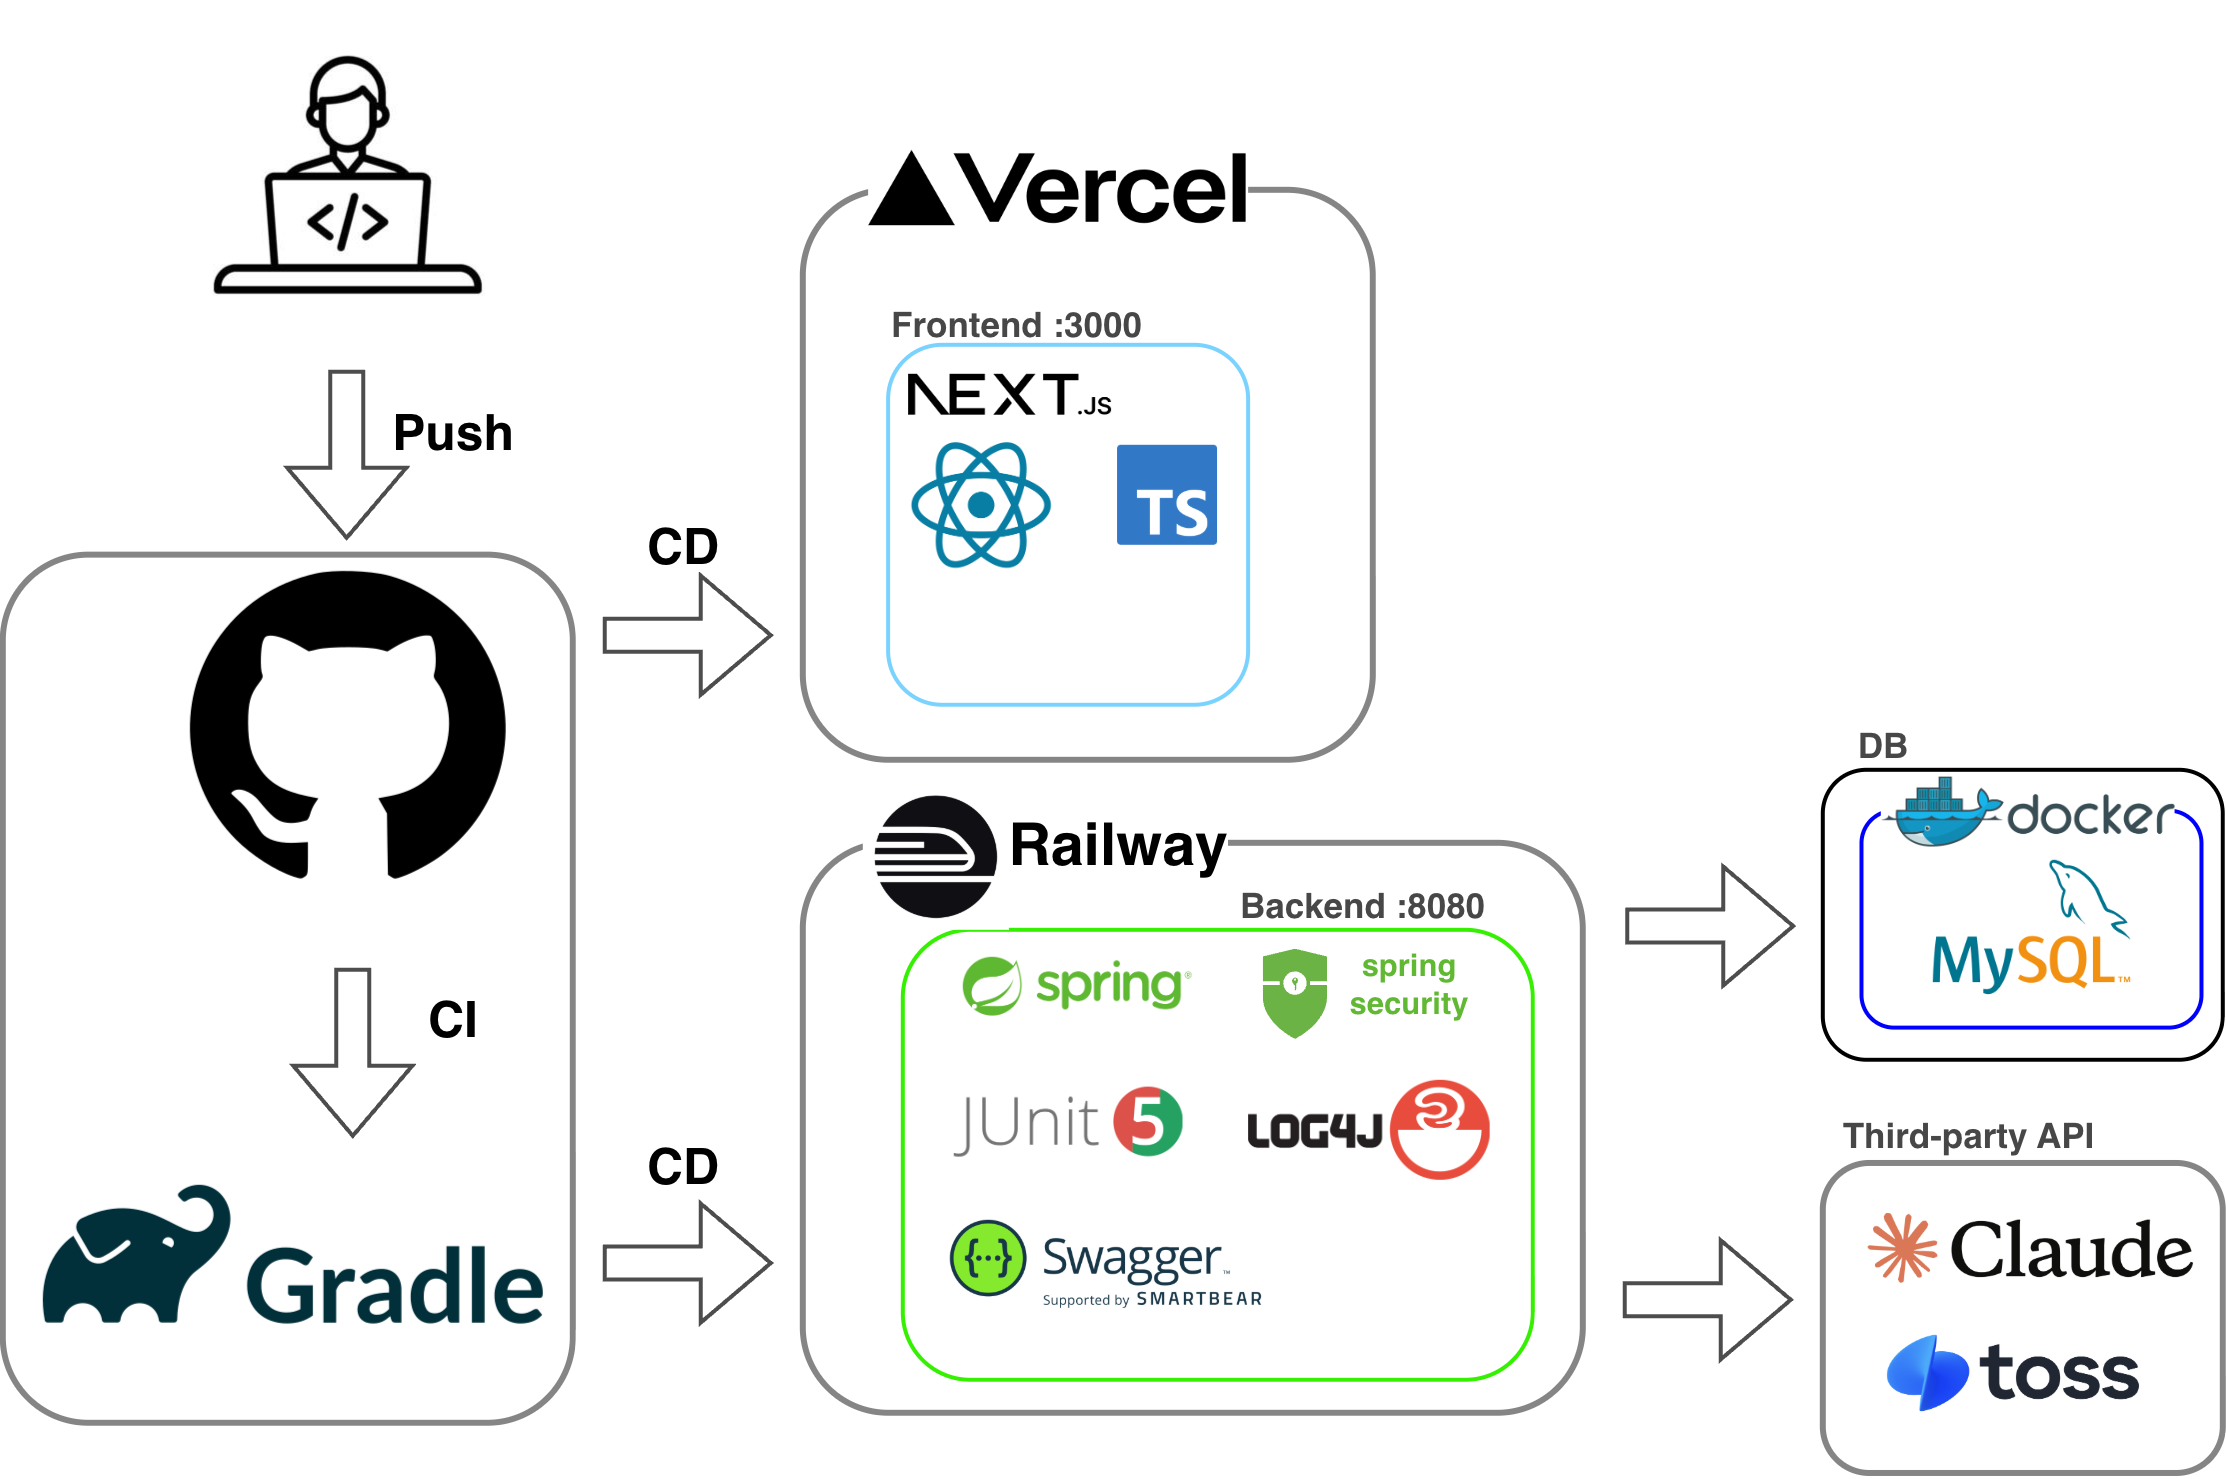
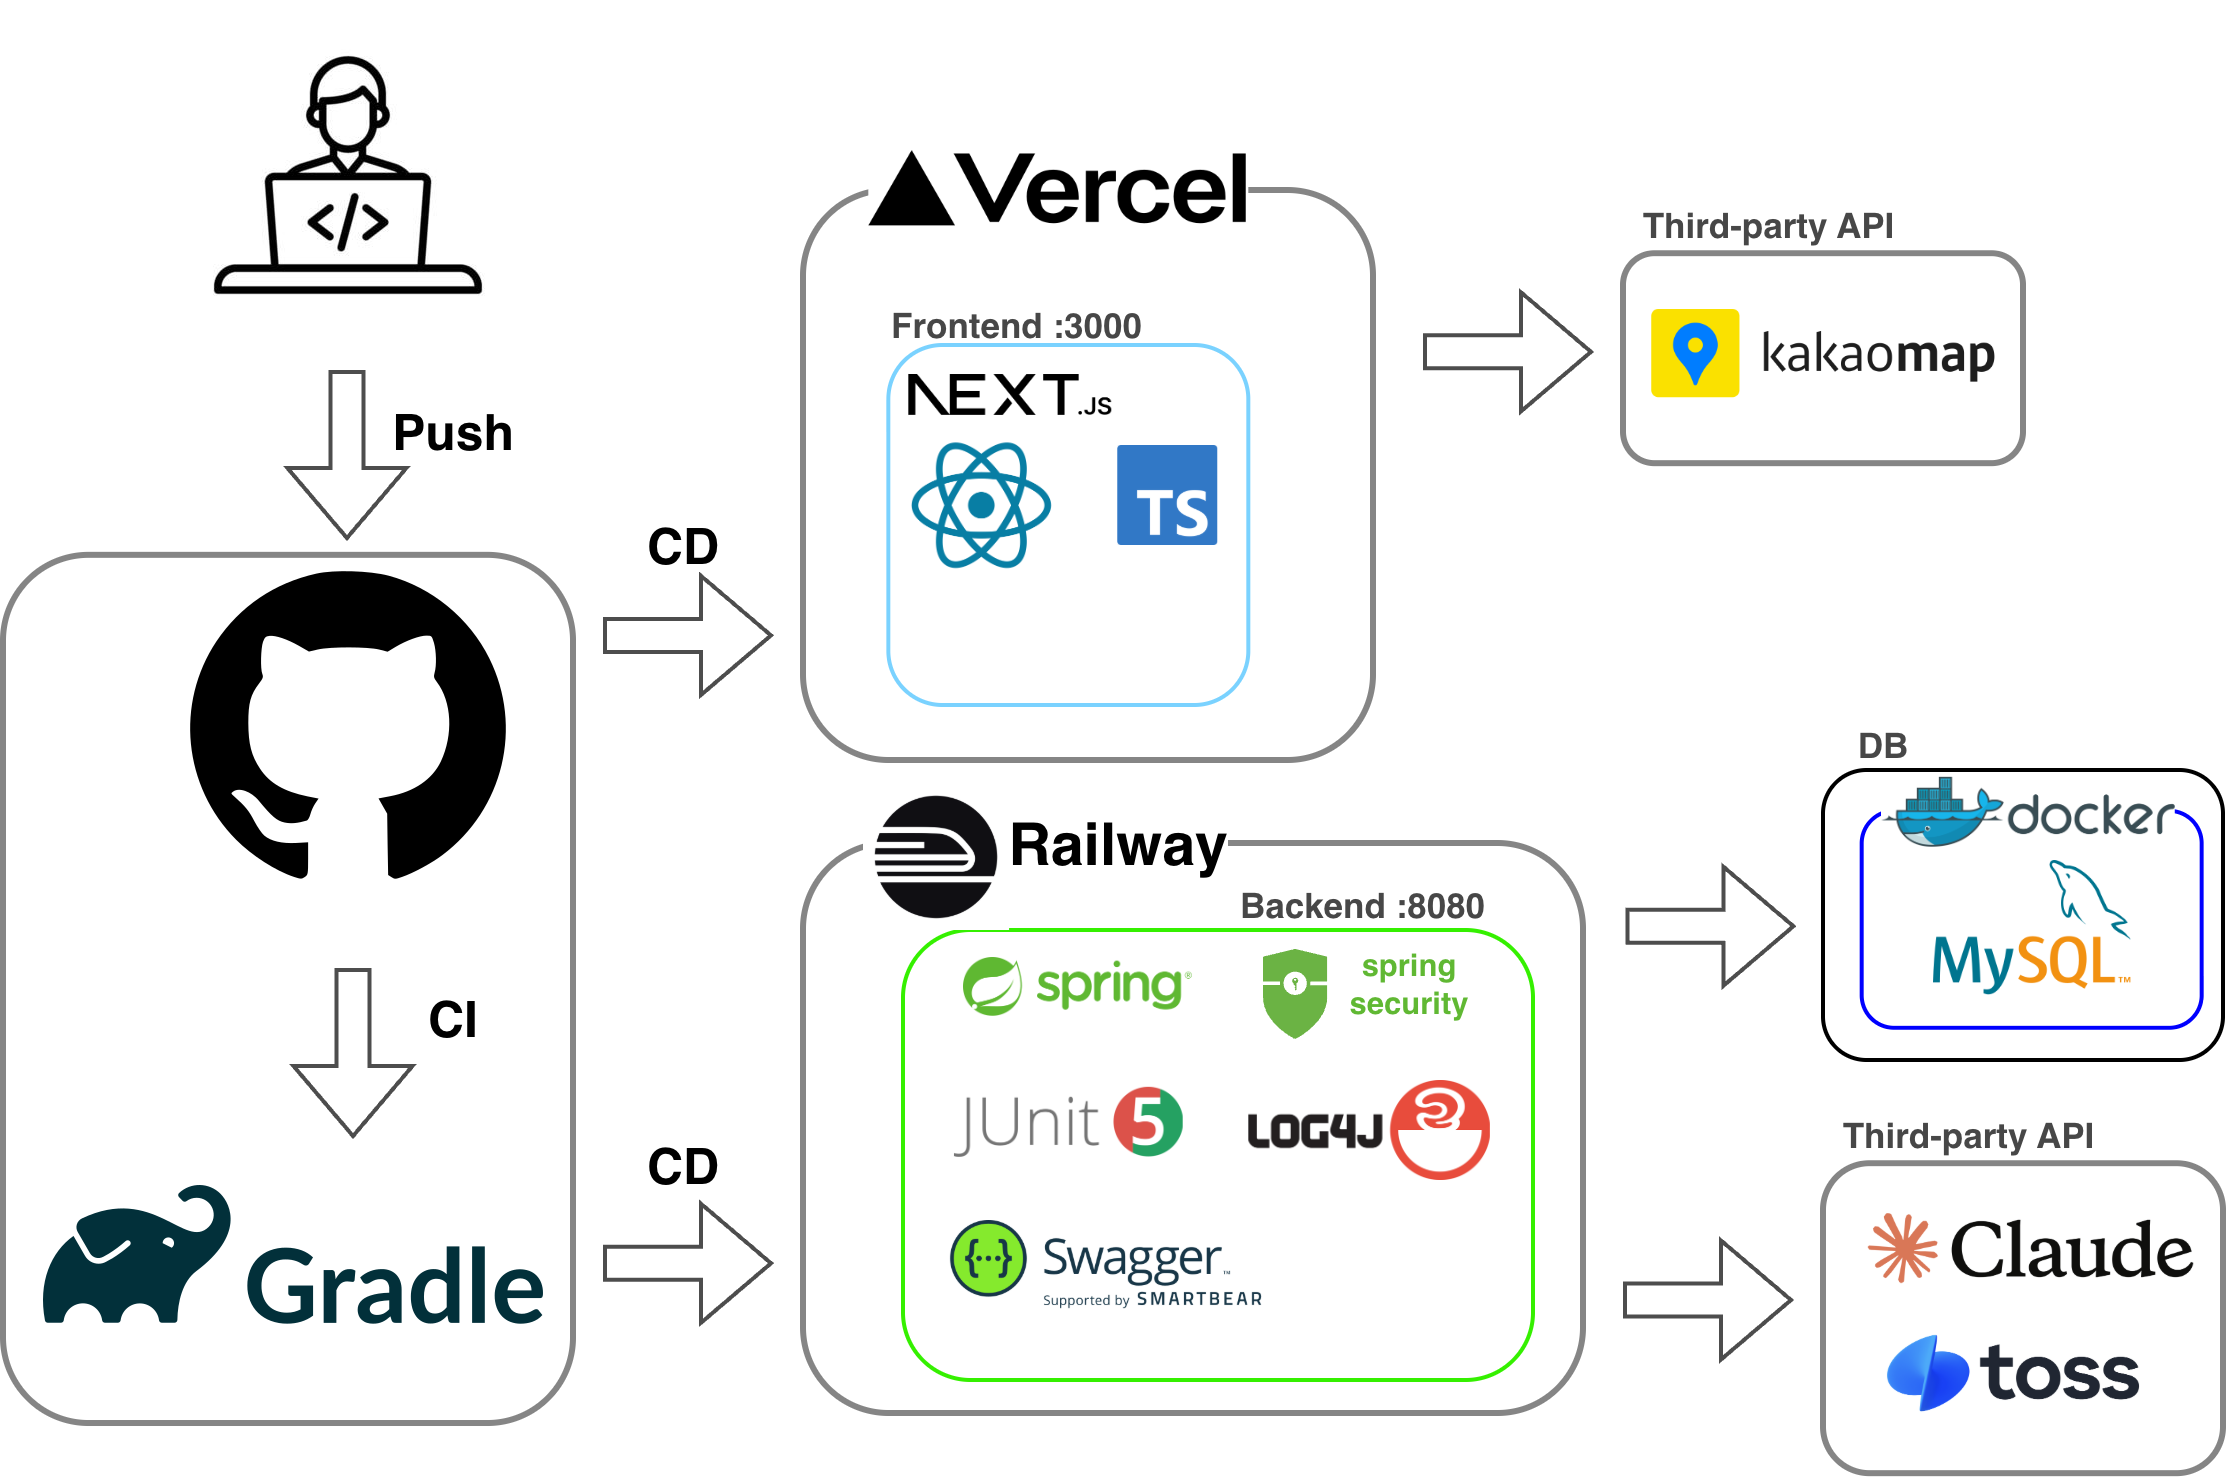
chore: README Third-Party 카카오맵 추가, 시스템 아키텍처 이미지 변경

diff --git a/README.md b/README.md
@@ -9,11 +9,11 @@
 1. [📄프로젝트 설명](#-프로젝트-설명)
 2. [📚기술 스택📚](#-기술-스택-)
 3. [👥팀원](#-팀원)
-4. [🏗ERD](#erd)
-5. [🔧아키텍처](#아키텍처)
-    - [⚙시스템 아키텍처](#시스템-아키텍처)
-    - [📂패키지 구조](#패키지-구조)
-    - [🌊상태 플로우](#상태-플로우)
+4. [🏗ERD](#-erd)
+5. [🔧아키텍처](#-아키텍처)
+    - [⚙시스템 아키텍처](#-시스템-아키텍처)
+    - [🌊상태 플로우](#-상태-플로우)
+    - [📂패키지 구조](#-패키지-구조)
 6. [🚀트러블 슈팅](#-트러블-슈팅)
 
 </div>
@@ -85,10 +85,10 @@
 ### Front End
 
 ![nextjs](https://img.shields.io/badge/Nextjs-000000?style=for-the-badge&logo=nextdotjs&logoColor=white)
+![react](https://img.shields.io/badge/react-61DAFB?style=for-the-badge&logo=react&logoColor=white)
 ![html](https://img.shields.io/badge/HTML5-E34F26?style=for-the-badge&logo=HTML5&logoColor=white)
 ![css](https://img.shields.io/badge/CSS3-1572B6?style=for-the-badge&logo=CSS3&logoColor=white)
 ![typescript](https://img.shields.io/badge/typescript-3178C6?style=for-the-badge&logo=typescript&logoColor=white)
-![react](https://img.shields.io/badge/react-61DAFB?style=for-the-badge&logo=react&logoColor=white)
 
 ### Back End
 
@@ -99,18 +99,19 @@
 ![jwt](https://img.shields.io/badge/JSON_Web_Tokens-85EA2D?style=for-the-badge&logo=JSON-Web-Tokens&logoColor=white)
 ![swagger](https://img.shields.io/badge/swagger-34E27A?style=for-the-badge&logo=swagger&logoColor=white)
 ![mysql](https://img.shields.io/badge/MySQL-4479A1?style=for-the-badge&logo=MySQL&logoColor=white)
-![docker](https://img.shields.io/badge/docker-2496ED?style=for-the-badge&logo=docker&logoColor=white)
 ![gradle](https://img.shields.io/badge/gradle-02303A?style=for-the-badge&logo=gradle&logoColor=white)
 
 ### Third-Party
 
 ![claude](https://img.shields.io/badge/claude-D97757?style=for-the-badge&logo=claude&logoColor=white)
 ![tosspayment](https://img.shields.io/badge/tosspayment-007acc?style=for-the-badge&logo=tosspayment&logoColor=white)
+![kakao-map](https://img.shields.io/badge/kakao_map-FFCD00?style=for-the-badge&logo=kakao&logoColor=white)
 
 ### Infra
 
 ![railway](https://img.shields.io/badge/railway-0B0D0E?style=for-the-badge&logo=railway&logoColor=white)
 ![vercel](https://img.shields.io/badge/vercel-000000?style=for-the-badge&logo=vercel&logoColor=white)
+![docker](https://img.shields.io/badge/docker-2496ED?style=for-the-badge&logo=docker&logoColor=white)
 
 ### Tools
 
@@ -130,21 +131,21 @@
 | <img src='https://avatars.githubusercontent.com/u/67158609?v=4' width='100'/> | <img src='https://avatars.githubusercontent.com/u/276445634?v=4' width='100'/> | <img src='https://avatars.githubusercontent.com/u/82699095?v=4' width='100'/> | <img src='https://avatars.githubusercontent.com/u/301536526?v=4' width='100'/> | <img src='https://avatars.githubusercontent.com/u/193578436?v=4' width='100'/> |
 |    <p align="left">- 회원 도메인<br/>- 인증·인가<br/>- 교육 영상 시청 검증<br/>- ERD 설계</p>    |  <p align="left">- 진료 보고서 도메인<br>- 리뷰 도메인<br/>- AI 요약 연동<br/>- 전체 통합 테스트</p>   |      <p align="left">- 공고 도메인<br/>- 카카오맵 연동<br/>- 스케줄러<br/>- 로깅·모니터링</p>      |         <p align="left">- 지원 도메인<br>- 동행 진행 상태<br/>- UI·UX·와이어프레임</p>          |     <p align="left">- 결제, 정산 도메인<br/>- 이동수단 도메인<br/>- 정산 스케줄러<br/>- 서기</p>     |
 
-# ERD
+# 🏗 ERD
 
 ![erd](/readme-images/erd.png)
 
-# 아키텍처
+# 🔧 아키텍처
 
-## 시스템 아키텍처
+## ⚙ 시스템 아키텍처
 
 ![system-architecture](/readme-images/system_architecture.png)
 
-## 상태 플로우
+## 🌊 상태 플로우
 
 ![status-flow](/readme-images/status_flow.png)
 
-## 패키지 구조
+## 📂 패키지 구조
 
 <div align=left>
 
